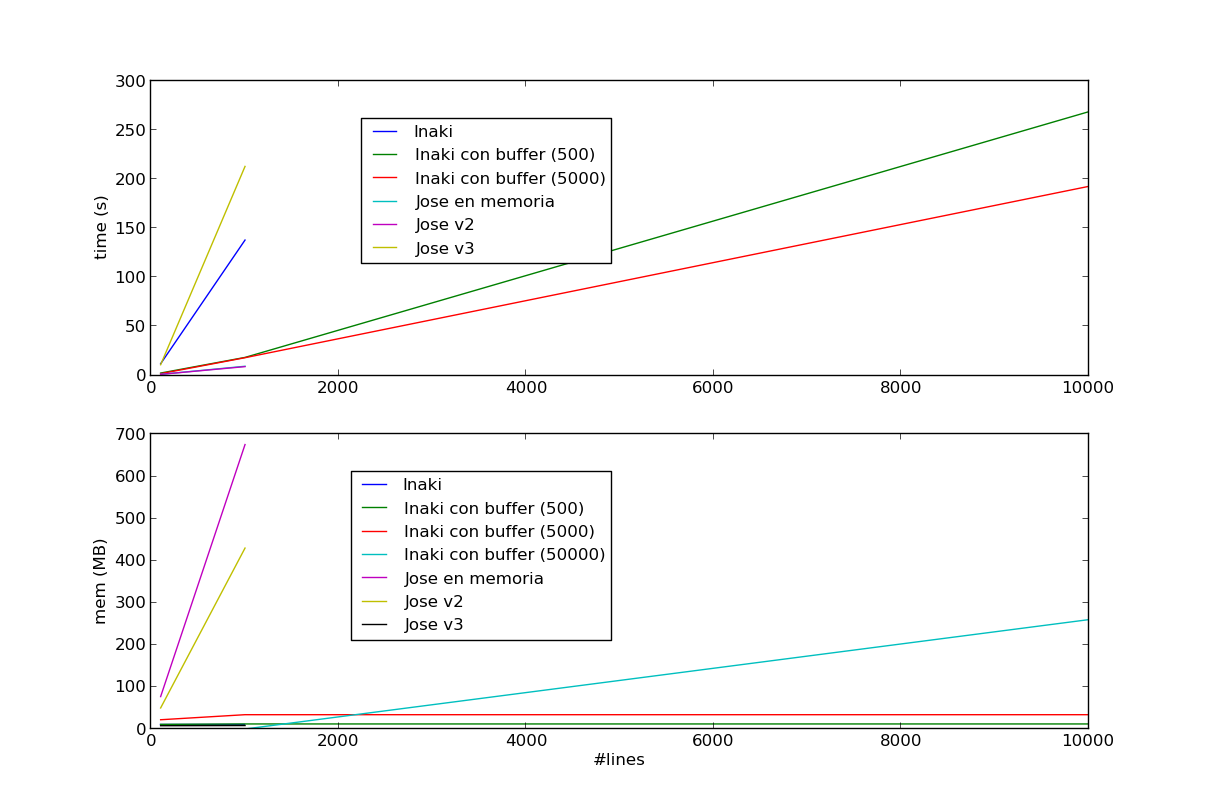
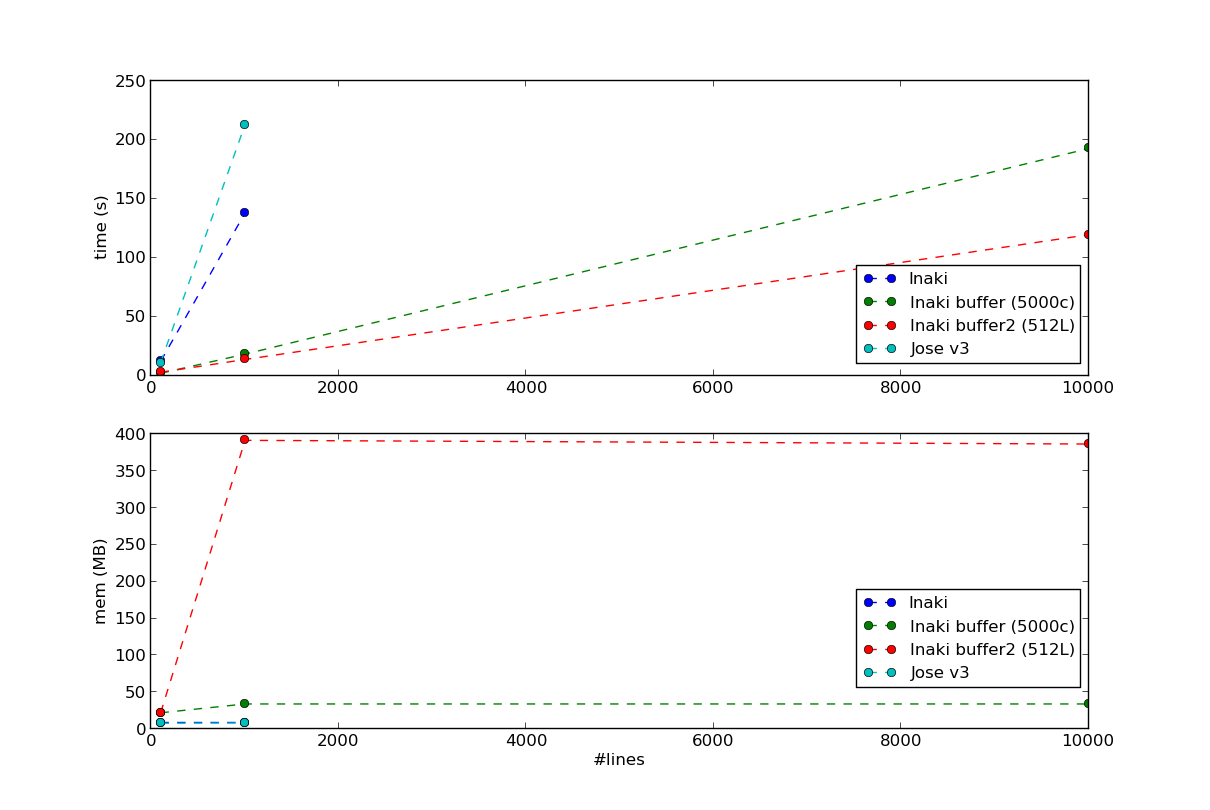
optimized ev_buffer2.py

diff --git a/isilanes/plot.py b/isilanes/plot.py
@@ -12,10 +12,10 @@ times = {
         #      100 : 1.2,
         #     1000 : 9.1,
         #    },
-        #'Jose v3' : {
-        #      100 :  11,
-        #     1000 : 213,
-        #    },
+        'Jose v3' : {
+              100 :  11,
+             1000 : 213,
+            },
         'Inaki' : {
               100 :  12,
              1000 : 138,
@@ -25,10 +25,15 @@ times = {
         #     1000 :  18.47,
         #    10000 : 268.8,
         #    },
-        'Inaki con buffer (5000)' : {
+        'Inaki buffer (5000c)' : {
               100 :   1.90,
              1000 :  18.17,
             10000 : 192.74,
+            },
+        'Inaki buffer2 (512L)' : {
+              100 :   2.78,
+             1000 :  13.62,
+            10000 : 119.59,
             },
         }
 
@@ -42,10 +47,10 @@ mems = {
         #      100 :  50,
         #     1000 : 430,
         #    },
-        #'Jose v3' : {
-        #      100 : 7.8,
-        #     1000 : 8.2,
-        #    },
+        'Jose v3' : {
+              100 : 7.8,
+             1000 : 8.2,
+            },
         'Inaki' : {
               100 : 8.5,
              1000 : 8.5,
@@ -55,10 +60,15 @@ mems = {
         #     1000 : 12,
         #    10000 : 12,
         #    },
-        'Inaki con buffer (5000)' : {
+        'Inaki buffer (5000c)' : {
               100 : 22,
              1000 : 34,
             10000 : 34,
+            },
+        'Inaki buffer2 (512L)' : {
+              100 : 22,
+             1000 : 392,
+            10000 : 387,
             },
         }
 
@@ -74,8 +84,8 @@ for id,vals in sorted(times.items()):
     fig_time.plot(x, y, 'o--', label=id)
     fig_time.set_ylabel('time (s)')
     fig_time.legend(prop={'size':12}, bbox_to_anchor=(1.0, 0.4))
-    fig_time.set_xscale('log')
-    fig_time.set_yscale('log')
+    #fig_time.set_xscale('log')
+    #fig_time.set_yscale('log')
 
 fig_mem = fig.add_subplot(2,1,2)
 for id,vals in sorted(mems.items()):
@@ -88,7 +98,29 @@ for id,vals in sorted(mems.items()):
     fig_mem.set_xlabel('#lines')
     fig_mem.set_ylabel('mem (MB)')
     fig_mem.legend(prop={'size':12}, bbox_to_anchor=(1.0, 0.5))
-    fig_mem.set_xscale('log')
-    fig_mem.set_yscale('log')
+    #fig_mem.set_xscale('log')
+    #fig_mem.set_yscale('log')
 
 pylab.show()
+
+'''
+# Second plot:
+x = [1, 2, 4, 8, 16, 32, 64, 128, 256, 512]
+
+test100 = {}
+test100['buffer2']  = [  11.69,  6.39,  4.16,  2.58,  2.01,  1.80,  1.79,  2.00,  2.05,  2.06 ]
+
+test1000 = {}
+test1000['buffer2'] = [ 150.09, 74.57, 45.00, 22.22, 15.99, 14.29, 15.95, 17.58, 23.80, 38.63 ]
+
+test10000 = {}
+test10000['buffer2'] = [ 0, 0, 446.28, 281.17, 196.33, 182.05, 174.15, 192.25, 252.16, 362.86 ]
+
+pylab.figure(1, figsize=(12,8), dpi=100)
+pylab.plot(x[2:-1], test100['buffer2'][2:-1], label='100L')
+pylab.plot(x[2:-1], test1000['buffer2'][2:-1], label='1000L')
+pylab.plot(x[2:-1], test10000['buffer2'][2:-1], label='10000L')
+pylab.yscale('log')
+pylab.legend()
+pylab.show()
+'''

diff --git a/isilanes/ev_buffer2.py b/isilanes/ev_buffer2.py
@@ -1,0 +1,50 @@
+import sys
+import itertools as it
+
+#------------------------------------------------------------------------------#
+
+# Variables:
+buffer_size = 512
+
+# Read input file:
+try:
+    fn = sys.argv[1]
+    f = open(fn, 'r')
+except:
+    print ('Error reading file, or no file name given')
+    sys.exit()
+
+# Read X, Y and Z coordinates, from first three lines:
+x = f.readline().split()[2:]
+y = f.readline().split()[2:]
+z = f.readline().split()[2:]
+
+# Open all output files, and initialize with XYZ:
+nx = len(x)
+for i in range(nx):
+    outfn = 'out_isc/ev_{0:04d}.out'.format(i+1)
+    with open(outfn, 'w') as g:
+        string = '{0}  {1}  {2}  0.0\n'.format(x[i], y[i], z[i])
+        g.write(string)
+
+# Read useless line:
+f.readline()
+
+# Read values line by line:
+buffer = True
+while buffer:
+    strings = [ [] for i in range(nx) ]
+    buffer = list(it.islice(f, buffer_size))
+    for line in buffer:
+        line = line.replace('(','')
+        line = line.replace(')','')
+        aline = line.split()
+        for i in range(nx):
+            slice = aline[3*i+1:3*i+4]
+            strings[i].append('{0[0]}  {1[0]} {1[1]} {1[2]}\n'.format(aline, slice))
+
+    for i in range(nx):
+        outfn = 'out_isc/ev_{0:04d}.out'.format(i)
+        with open(outfn, 'a') as g:
+            for line in strings[i]:
+                g.write(line)
